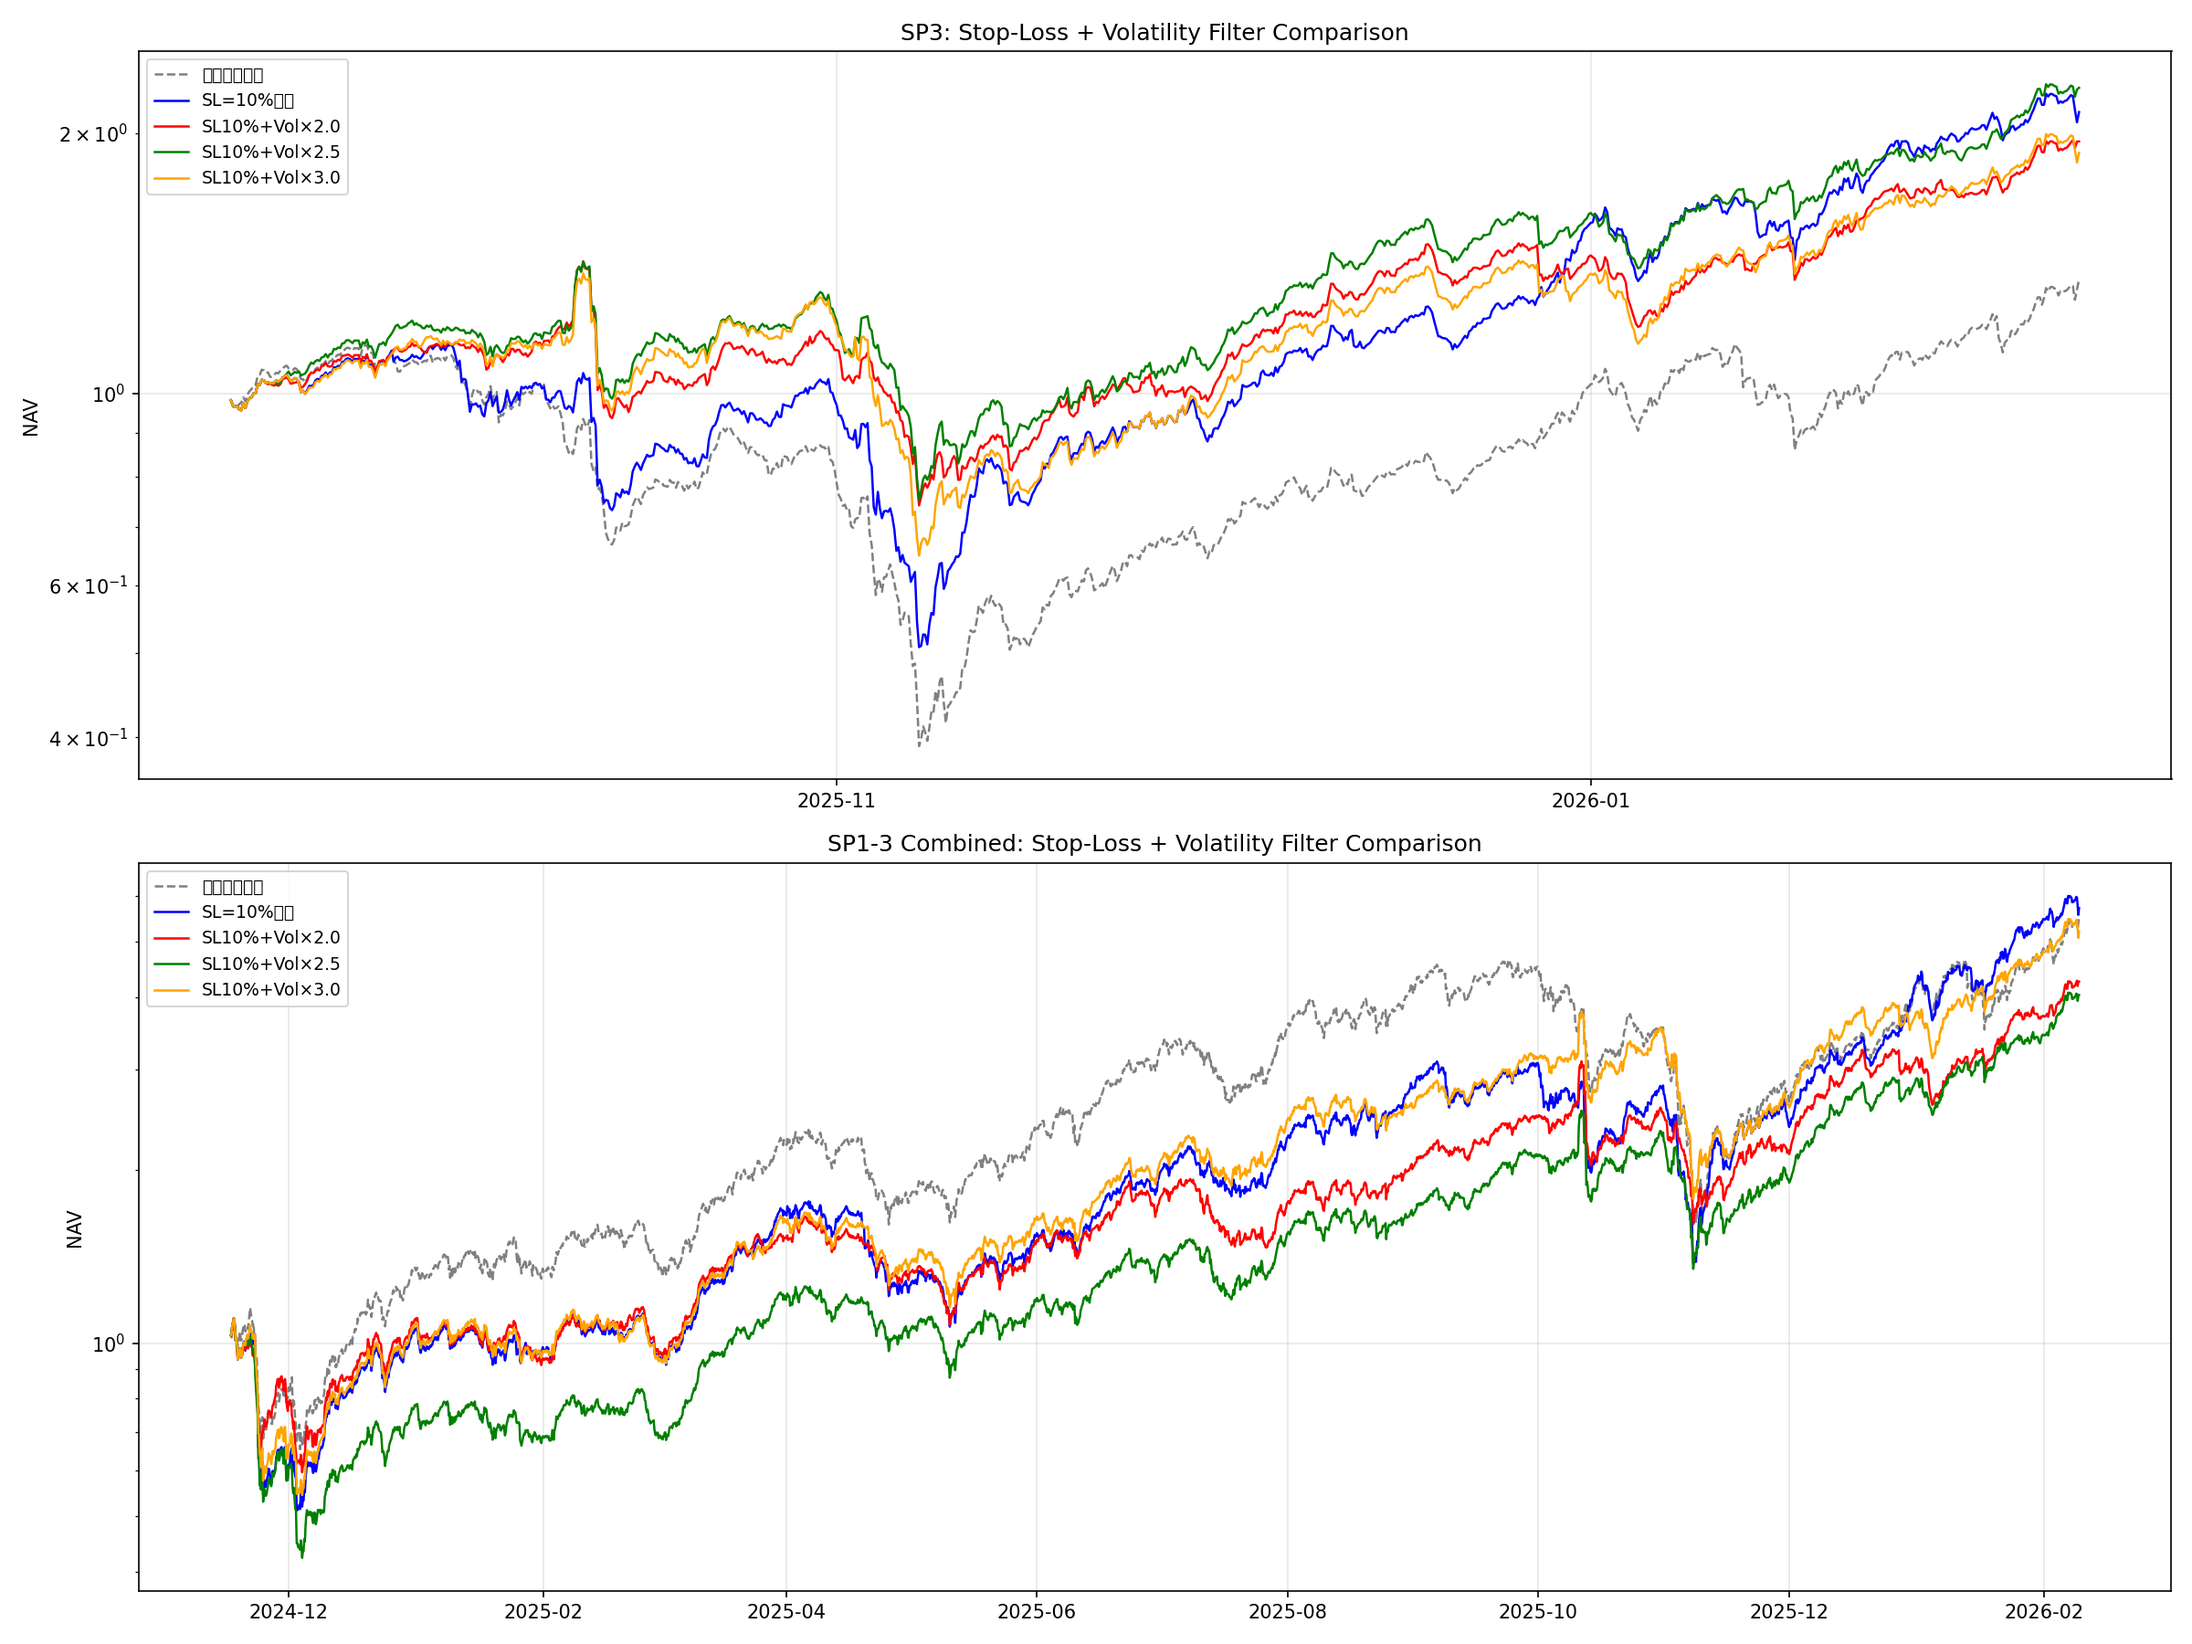
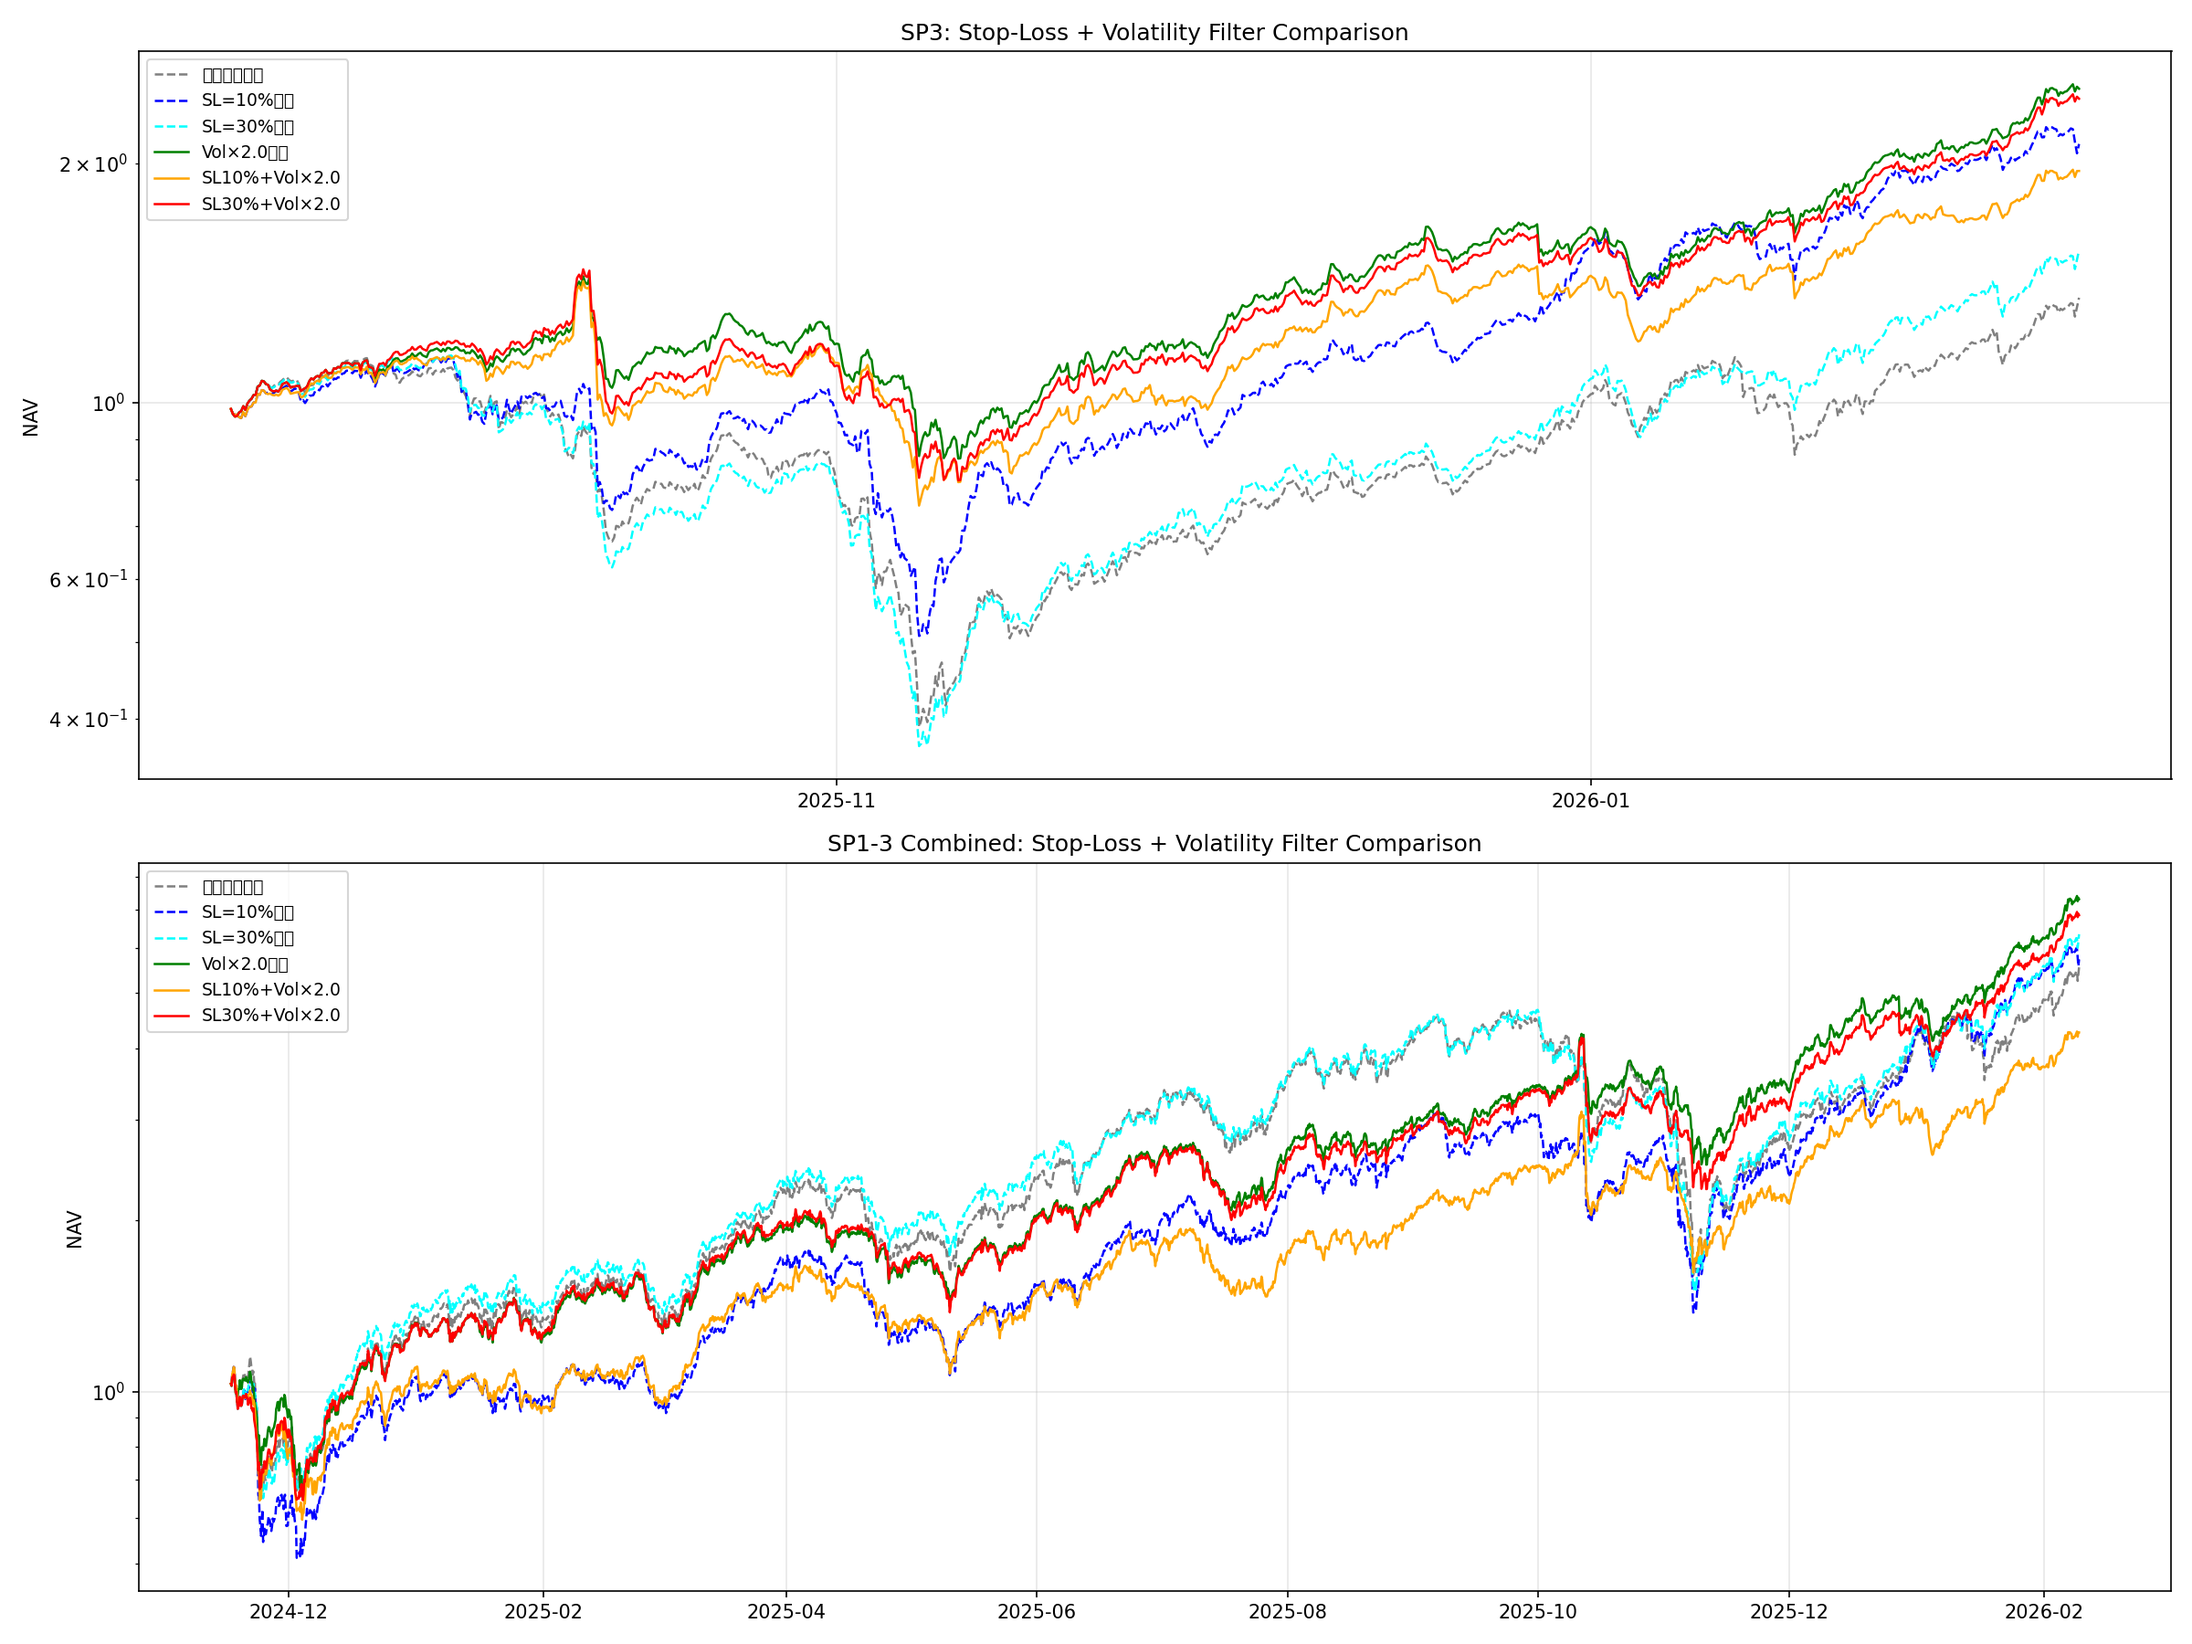
feat: ボラティリティフィルタ、SLの同時利用の実験

diff --git a/analyze_volfilter.py b/analyze_volfilter.py
@@ -243,12 +243,10 @@ def main():
     configs = [
         {"label": "ベースライン", "sl": None, "vol": None},
         {"label": "SL=10%のみ", "sl": 0.10, "vol": None},
+        {"label": "SL=30%のみ", "sl": 0.30, "vol": None},
         {"label": "Vol×2.0のみ", "sl": None, "vol": 2.0},
-        {"label": "Vol×2.5のみ", "sl": None, "vol": 2.5},
-        {"label": "Vol×3.0のみ", "sl": None, "vol": 3.0},
         {"label": "SL10%+Vol×2.0", "sl": 0.10, "vol": 2.0},
-        {"label": "SL10%+Vol×2.5", "sl": 0.10, "vol": 2.5},
-        {"label": "SL10%+Vol×3.0", "sl": 0.10, "vol": 3.0},
+        {"label": "SL30%+Vol×2.0", "sl": 0.30, "vol": 2.0},
     ]
 
     # SP別結果格納
@@ -303,10 +301,11 @@ def main():
     ax = axes[0]
     plot_configs = [
         ("ベースライン", "gray", "--"),
-        ("SL=10%のみ", "blue", "-"),
-        ("SL10%+Vol×2.0", "red", "-"),
-        ("SL10%+Vol×2.5", "green", "-"),
-        ("SL10%+Vol×3.0", "orange", "-"),
+        ("SL=10%のみ", "blue", "--"),
+        ("SL=30%のみ", "cyan", "--"),
+        ("Vol×2.0のみ", "green", "-"),
+        ("SL10%+Vol×2.0", "orange", "-"),
+        ("SL30%+Vol×2.0", "red", "-"),
     ]
     for label, color, ls in plot_configs:
         sp3_ret = results[label]["sp_results"][2]["returns"]
